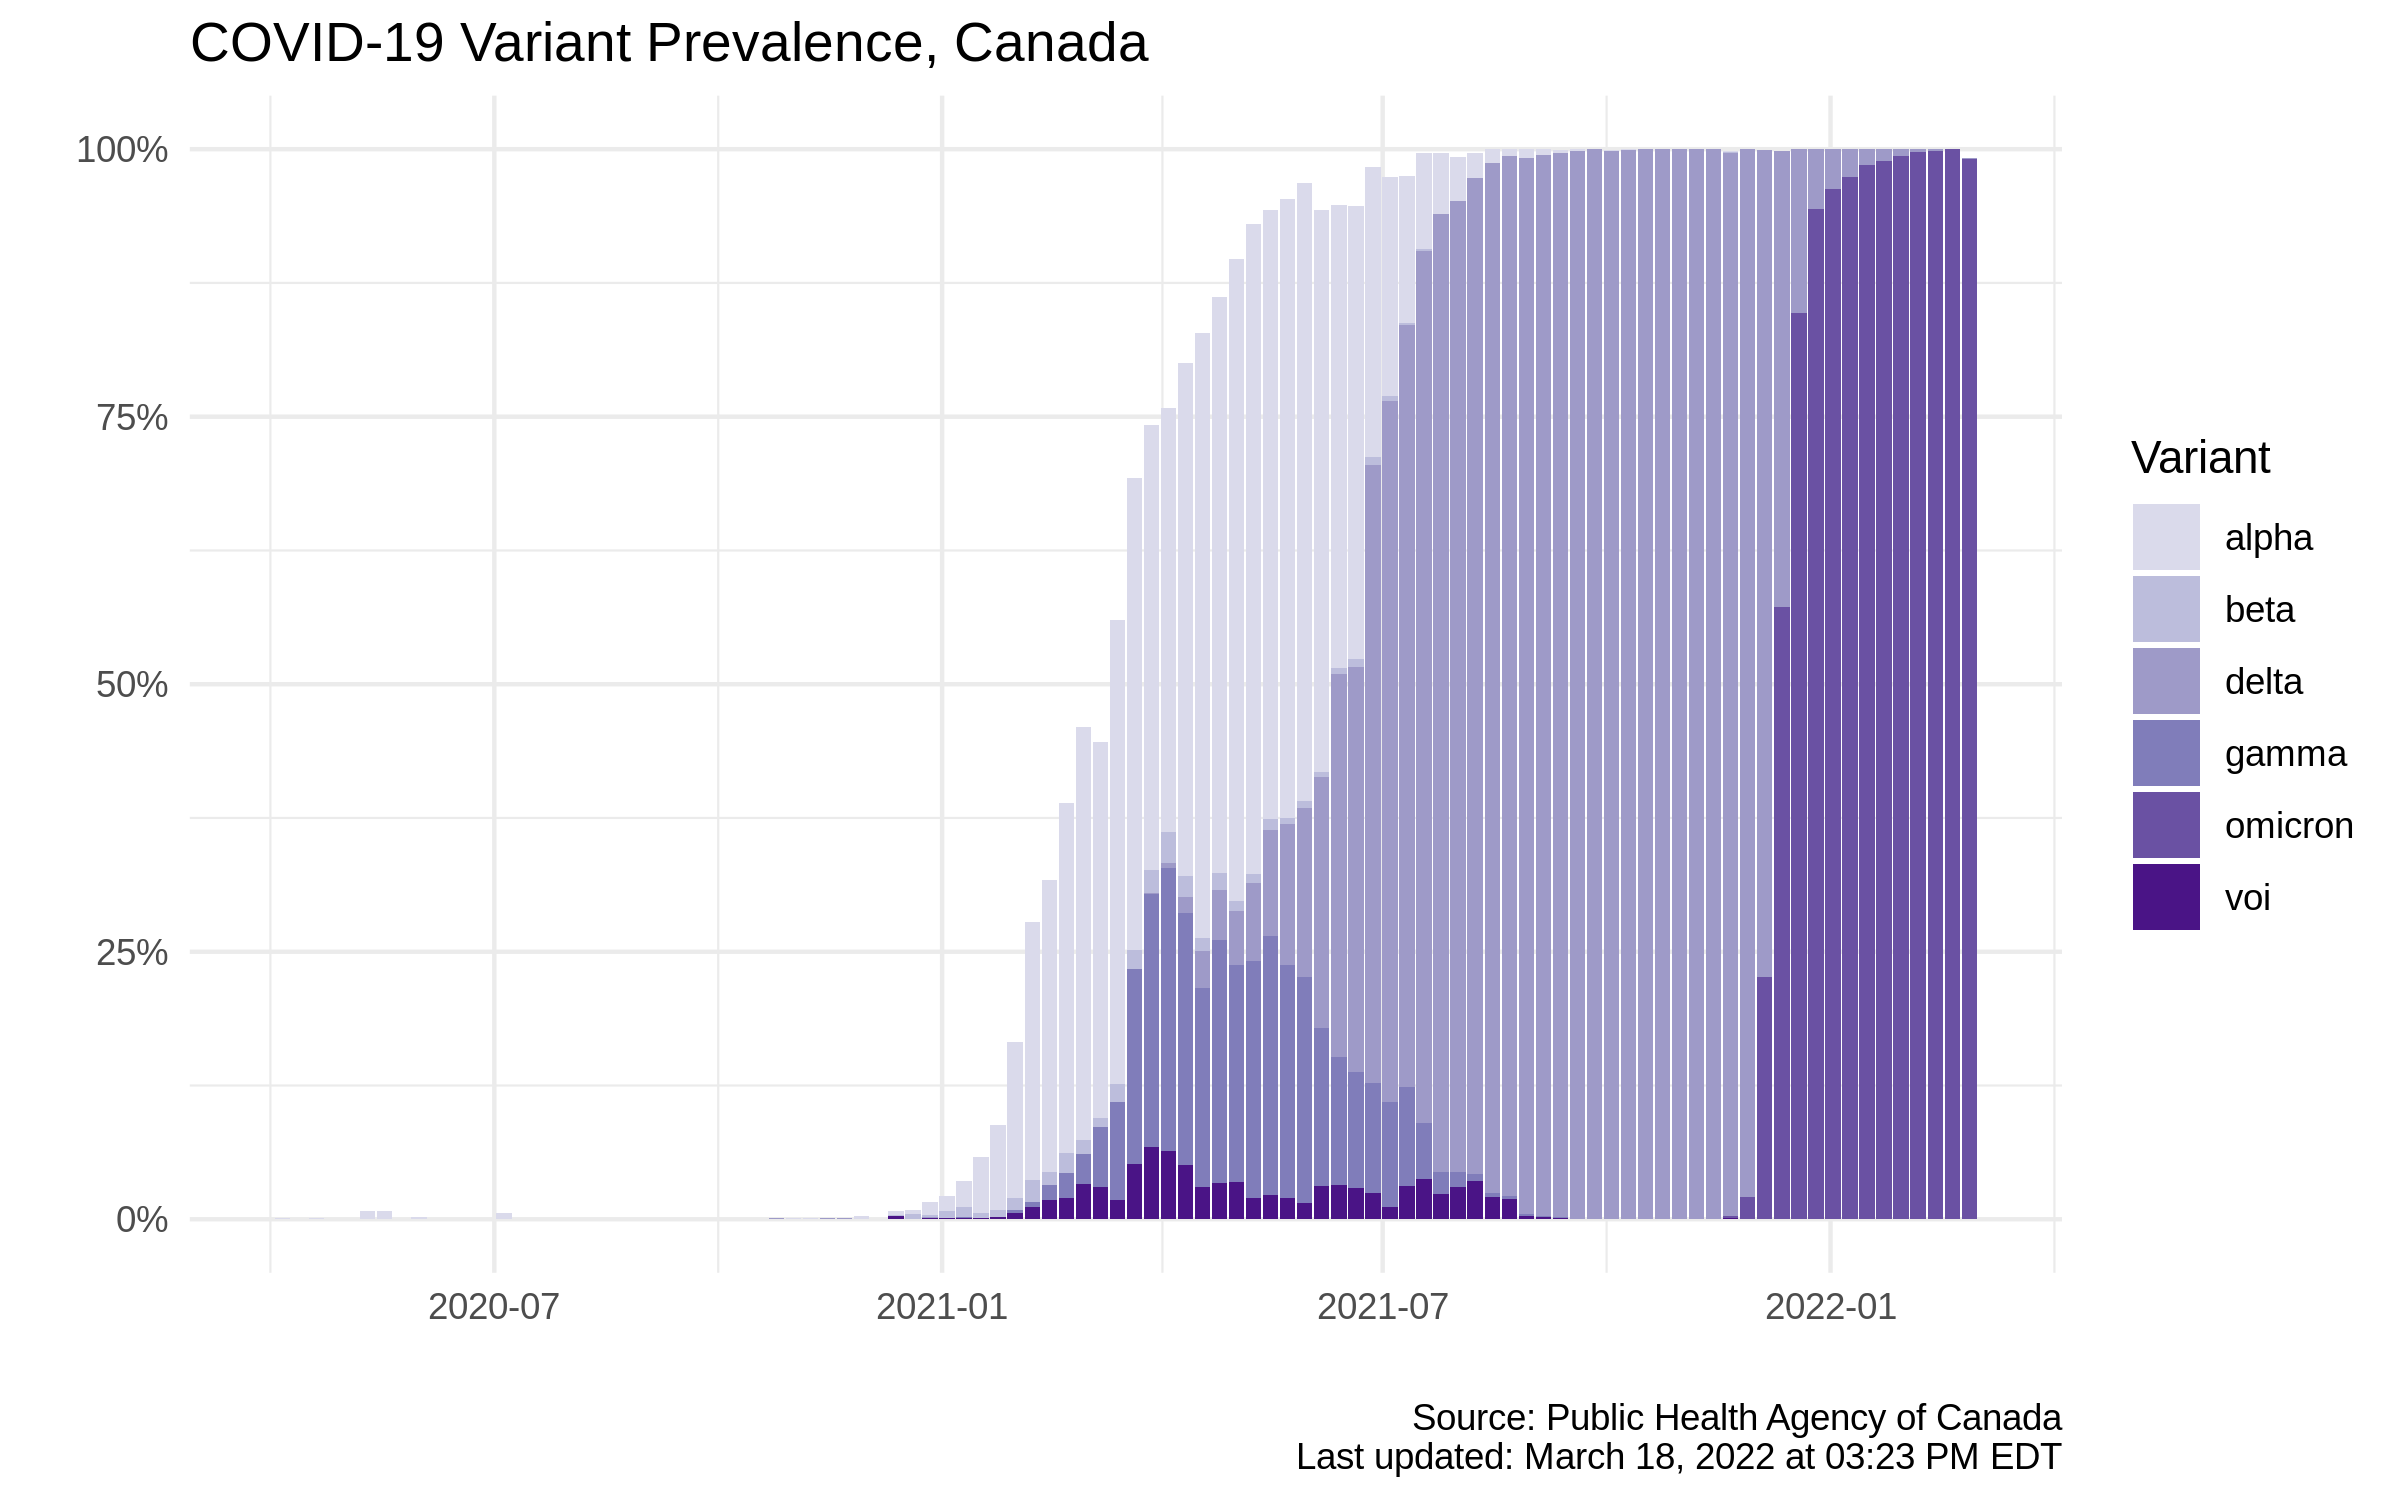
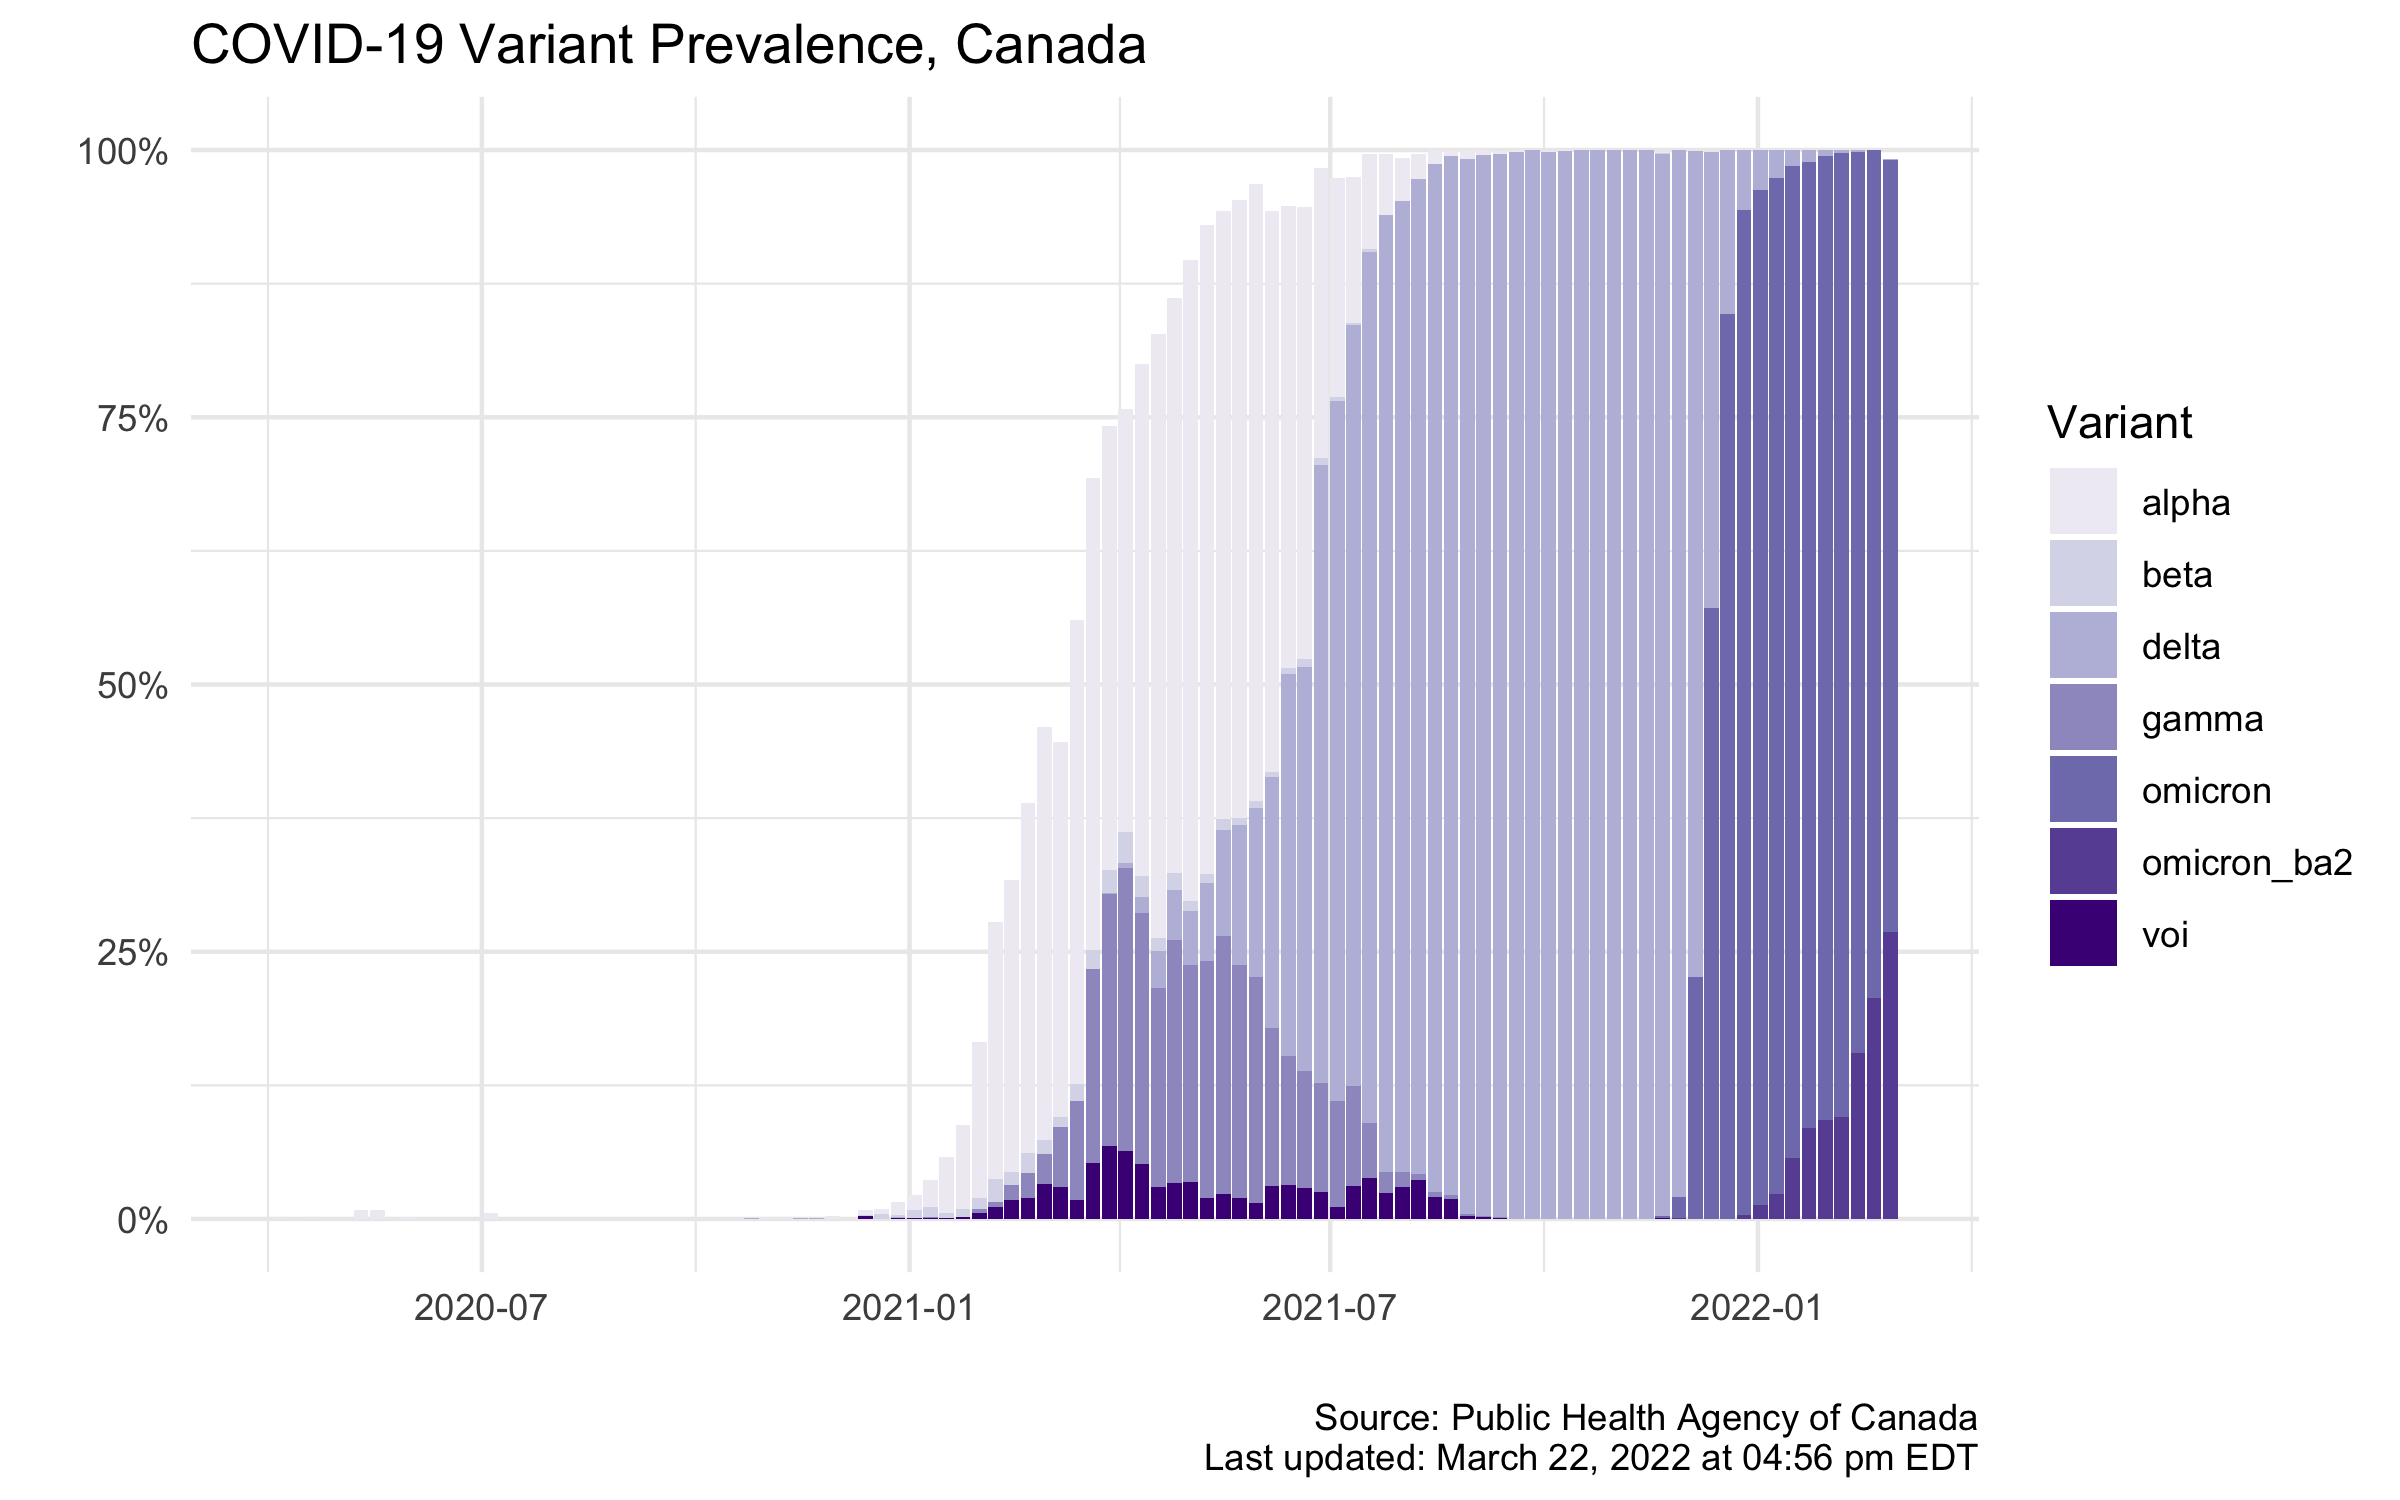
Separate omicron subvariants (#2)
* Include omicron BA.2

* Add BA.2

diff --git a/covid-variants/README.md b/covid-variants/README.md
@@ -11,5 +11,6 @@ An interactive visualization of the data can be seen in [this article](https://g
 ![A chart of COVID-19 variant prevalence in Canada](charts/covid-19-variants-canada.png)
 
 ## Changelog
+- 2022-03-22: Separate Omicron BA.1 and BA.2 subvariants
 - 2022-02-08: Include data from March 2020 onward 
 - 2022-02-02: Initial publication
